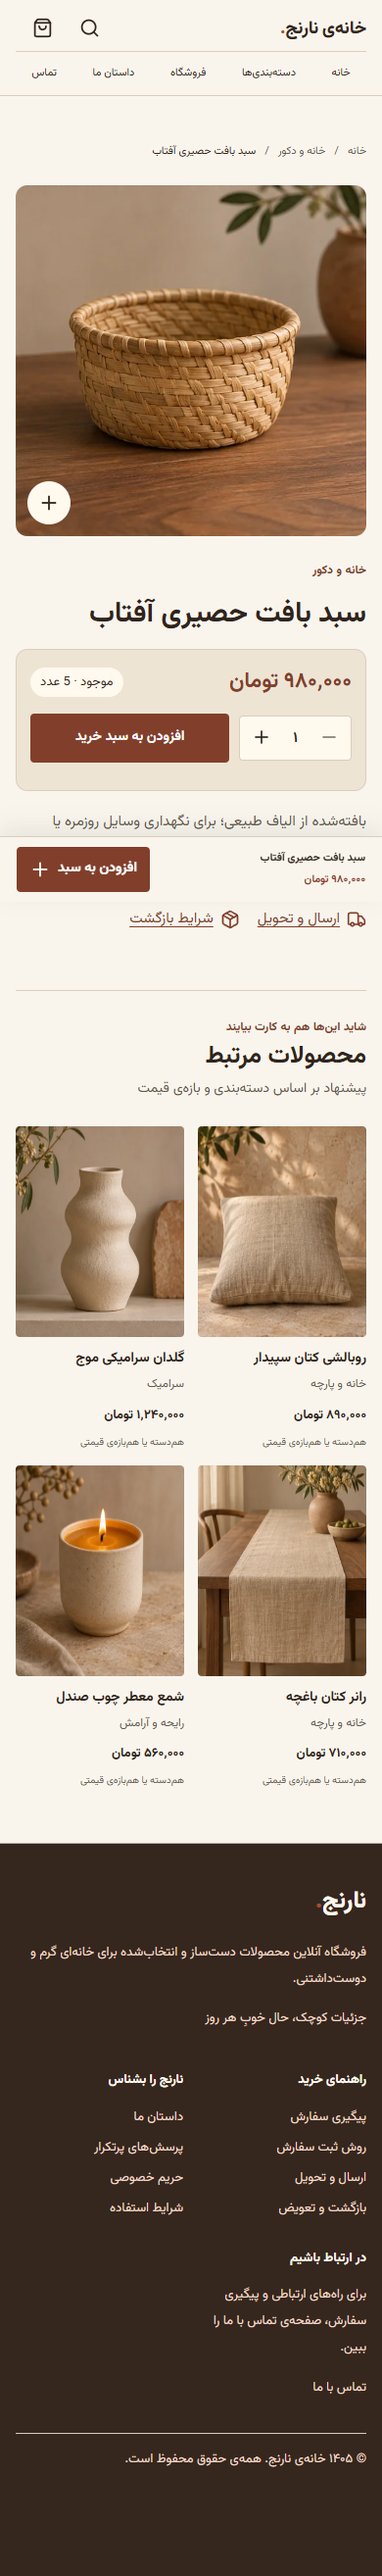
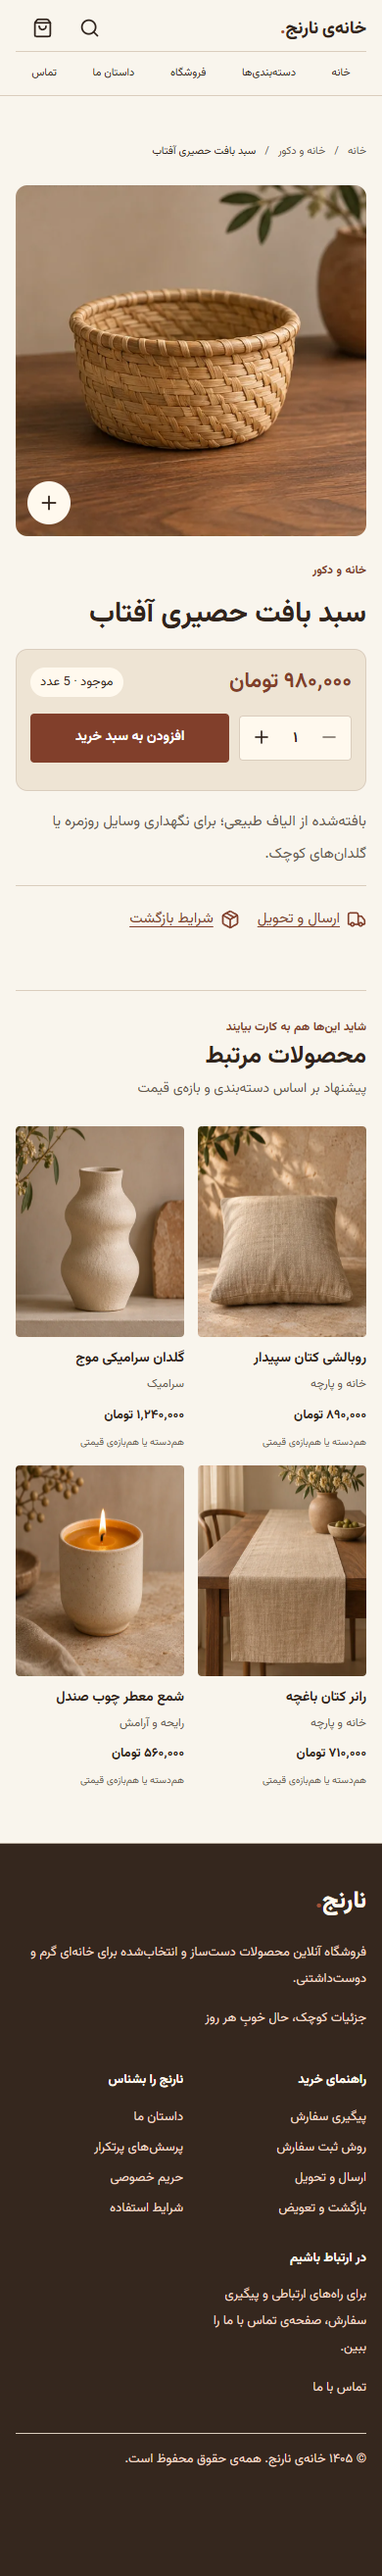
Show sticky purchase only after passing primary action

Changed region(s): [[0.0308, 0.312, 0.4, 0.3432], [0.7077, 0.312, 0.9538, 0.3432]]

diff --git a/src/components/product-detail.tsx b/src/components/product-detail.tsx
@@ -1,5 +1,5 @@
 "use client";
-import {useEffect,useState} from "react";
+import {useEffect,useRef,useState} from "react";
 import Image from "next/image";
 import Link from "next/link";
 import {formatPrice,type Product} from "@/lib/products";
@@ -16,6 +16,35 @@ export function ProductDetail({product,recommendations}:{product:Product;recomme
  const [message,setMessage]=useState(""),[cartCount,setCartCount]=useState(0);
  const [zoomed,setZoomed]=useState(false);
  const [quantity,setQuantity]=useState(1);
+ const primaryPurchase = useRef<HTMLButtonElement>(null);
+ const [showMobilePurchase, setShowMobilePurchase] = useState(false);
+
+ useEffect(() => {
+  const button = primaryPurchase.current;
+  if (!button || product.stock < 1) return;
+
+  let frame = 0;
+  const update = () => {
+   frame = 0;
+   setShowMobilePurchase(button.getBoundingClientRect().bottom <= 0);
+  };
+  const schedule = () => {
+   if (!frame) frame = requestAnimationFrame(update);
+  };
+  const observer = typeof IntersectionObserver === "undefined" ? null : new IntersectionObserver(schedule);
+
+  observer?.observe(button);
+  window.addEventListener("scroll", schedule, { passive: true });
+  window.addEventListener("resize", schedule);
+  schedule();
+  return () => {
+   observer?.disconnect();
+   window.removeEventListener("scroll", schedule);
+   window.removeEventListener("resize", schedule);
+   cancelAnimationFrame(frame);
+  };
+ }, [product.stock]);
+
  useEffect(()=>{const sync=()=>setCartCount(cartItemCount(readCartLines()));sync();window.addEventListener("storage",sync);window.addEventListener(CART_CHANGE_EVENT,sync);return()=>{window.removeEventListener("storage",sync);window.removeEventListener(CART_CHANGE_EVENT,sync);};},[]);
  function addToCart(){
   try{
@@ -30,5 +59,5 @@ export function ProductDetail({product,recommendations}:{product:Product;recomme
    <button type="button" className="icon-button" disabled={quantity<=1} aria-label="کم کردن تعداد" onClick={() => setQuantity(value => Math.max(1,value-1))}><UiIcon name="minus"/></button>
    <output aria-live="polite">{quantity.toLocaleString("fa-IR")}</output>
    <button type="button" className="icon-button" disabled={quantity>=product.stock} aria-label="زیاد کردن تعداد" onClick={() => setQuantity(value => Math.min(product.stock,value+1))}><UiIcon name="plus"/></button>
- </div>}<button className="primary-button" disabled={product.stock<1} onClick={addToCart}>{product.stock<1?"ناموجود":"افزودن به سبد خرید"}</button></div><p aria-live="polite" className="cart-feedback">{message}</p></div><p className="product-detail-description">{product.description}</p><div className="detail-policies"><Link href="/shipping"><UiIcon name="truck"/> ارسال و تحویل</Link><Link href="/returns"><UiIcon name="package"/> شرایط بازگشت</Link></div></section></div><aside className="mobile-purchase-bar" aria-label="خرید این محصول"><div><strong>{product.name}</strong><span>{formatPrice(product.price)} {storeConfig.currency}</span></div><button className="primary-button" disabled={product.stock<1} onClick={addToCart}>{product.stock<1?"ناموجود":"افزودن به سبد"}<UiIcon name="plus"/></button></aside><section className="related-products" aria-labelledby="related-heading"><div className="section-heading"><div><span className="eyebrow">شاید اینها هم به کارت بیایند</span><h2 id="related-heading">محصولات مرتبط</h2><p>{recommendations.some(item=>item.purchaseBased)?"ترکیبی از خریدهای تکمیلشده و شباهت محصول":"پیشنهاد بر اساس دستهبندی و بازهی قیمت"}</p></div></div>{recommendations.length?<div className="product-grid">{recommendations.map(({product:item,purchaseBased})=><article key={item.id} className="product-card"><Link href={`/product/${encodeURIComponent(item.id)}`} className="related-image-link" aria-label={`جزئیات ${item.name}`}><div className="product-image" style={item.image===sprite?{backgroundImage:`url('${sprite}')`,backgroundSize:"200% 300%",backgroundPosition:positions[item.id]||"0% 0%"}:undefined}>{item.image!==sprite&&<Image src={item.image} alt={item.name} fill unoptimized sizes="(max-width: 560px) 45vw, 25vw" style={{objectFit:"cover"}}/>}</div></Link><Link href={`/product/${encodeURIComponent(item.id)}`} className="related-product-title">{item.name}</Link><div className="product-category">{item.category}</div><div className="product-price">{formatPrice(item.price)} {storeConfig.currency}</div><small className="recommendation-reason">{purchaseBased?"همراه در سفارشهای تحویلشده":"همدسته یا همبازهی قیمتی"}</small></article>)}</div>:<p className="empty-state">فعلاً محصول مرتبط دیگری موجود نیست.</p>}</section></main><SiteFooter/></div>;
+ </div>}<button ref={primaryPurchase} className="primary-button" disabled={product.stock<1} onClick={addToCart}>{product.stock<1?"ناموجود":"افزودن به سبد خرید"}</button></div><p aria-live="polite" className="cart-feedback">{message}</p></div><p className="product-detail-description">{product.description}</p><div className="detail-policies"><Link href="/shipping"><UiIcon name="truck"/> ارسال و تحویل</Link><Link href="/returns"><UiIcon name="package"/> شرایط بازگشت</Link></div></section></div>{showMobilePurchase && product.stock > 0 && <aside className="mobile-purchase-bar" aria-label="خرید این محصول"><div><strong>{product.name}</strong><span>{formatPrice(product.price)} {storeConfig.currency}</span></div><button className="primary-button" disabled={product.stock<1} onClick={addToCart}>{product.stock<1?"ناموجود":"افزودن به سبد"}<UiIcon name="plus"/></button></aside>}<section className="related-products" aria-labelledby="related-heading"><div className="section-heading"><div><span className="eyebrow">شاید اینها هم به کارت بیایند</span><h2 id="related-heading">محصولات مرتبط</h2><p>{recommendations.some(item=>item.purchaseBased)?"ترکیبی از خریدهای تکمیلشده و شباهت محصول":"پیشنهاد بر اساس دستهبندی و بازهی قیمت"}</p></div></div>{recommendations.length?<div className="product-grid">{recommendations.map(({product:item,purchaseBased})=><article key={item.id} className="product-card"><Link href={`/product/${encodeURIComponent(item.id)}`} className="related-image-link" aria-label={`جزئیات ${item.name}`}><div className="product-image" style={item.image===sprite?{backgroundImage:`url('${sprite}')`,backgroundSize:"200% 300%",backgroundPosition:positions[item.id]||"0% 0%"}:undefined}>{item.image!==sprite&&<Image src={item.image} alt={item.name} fill unoptimized sizes="(max-width: 560px) 45vw, 25vw" style={{objectFit:"cover"}}/>}</div></Link><Link href={`/product/${encodeURIComponent(item.id)}`} className="related-product-title">{item.name}</Link><div className="product-category">{item.category}</div><div className="product-price">{formatPrice(item.price)} {storeConfig.currency}</div><small className="recommendation-reason">{purchaseBased?"همراه در سفارشهای تحویلشده":"همدسته یا همبازهی قیمتی"}</small></article>)}</div>:<p className="empty-state">فعلاً محصول مرتبط دیگری موجود نیست.</p>}</section></main><SiteFooter/></div>;
 }
